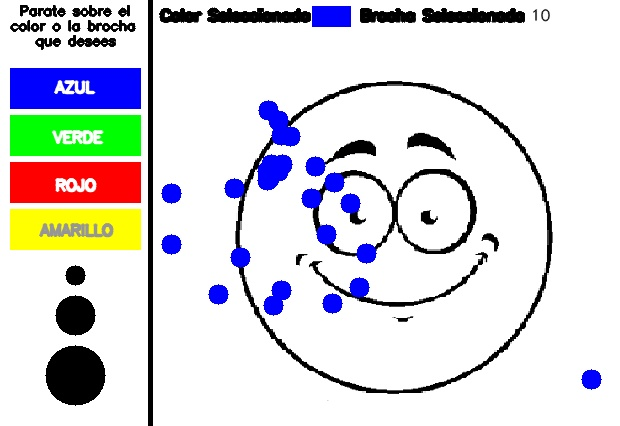
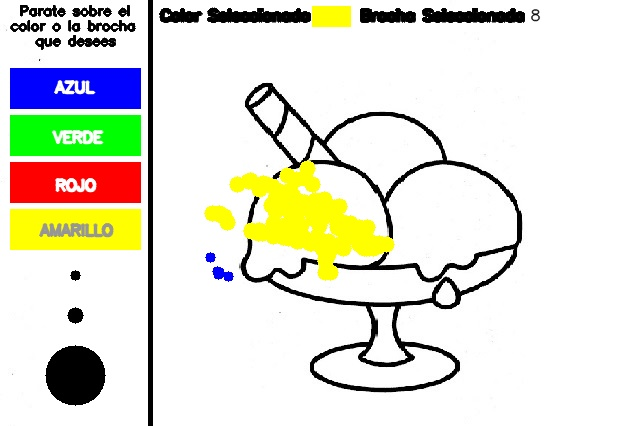
cambios sebas

diff --git a/camera.py b/camera.py
@@ -57,8 +57,8 @@ def _paint_menu(window,colors):
 	window = cv2.rectangle(window, (10,162), (140,202), colors[2], -1)
 	window = cv2.rectangle(window, (10,209), (140,249), colors[3], -1)
 
-	window = cv2.circle(window, (75,275), 10, (0,0,0), -1)
-	window = cv2.circle(window, (75,315), 20, (0,0,0), -1)
+	window = cv2.circle(window, (75,275), 5, (0,0,0), -1)
+	window = cv2.circle(window, (75,315), 8, (0,0,0), -1)
 	window = cv2.circle(window, (75,375), 30, (0,0,0), -1)
 
 	cv2.putText(window, "AZUL", (55, 92), cv2.FONT_HERSHEY_SIMPLEX, 0.5, (255, 255, 255), 2, cv2.LINE_AA)
@@ -83,7 +83,7 @@ def _paint_rules(window,colors,idx,brushes,brush_idx):
 	return window
 
 colors = [(255, 0, 0), (0, 255, 0), (0, 0, 255), (0, 255, 255)]
-brushes = [10,20,30]
+brushes = [5,8,30]
 color_idx = 0
 brush_idx = 0
 
